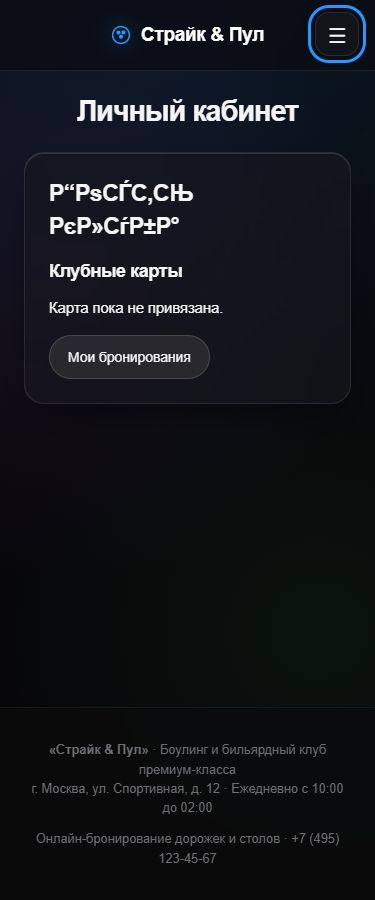
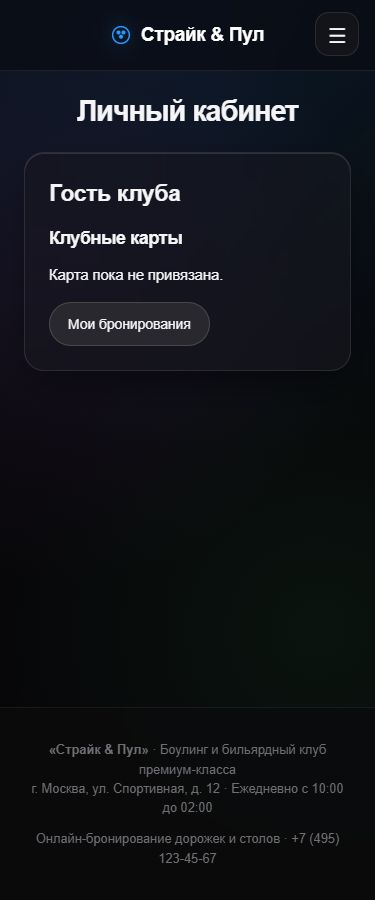
Исправил первый запуск на Windows и переснял профиль
При пустой SQLite локальный сервер применяет миграции и загружает каталог. В инструкции указал команды через py, в отчёте описал ошибку при запуске скачанной копии и результат повторной проверки.

Заменил оба снимка профиля за занятие 8: имя учебного гостя теперь читается при 375 и 1440 пикселях.

Changed region(s): [[0.1173, 0.1867, 0.5867, 0.4356], [0.8213, 0.0, 0.9973, 0.0933]]

diff --git a/club/migrations/0004_initial_catalog.py b/club/migrations/0004_initial_catalog.py
@@ -1,0 +1,23 @@
+import json
+from pathlib import Path
+
+from django.db import migrations
+
+
+def load_initial_catalog(apps, schema_editor):
+    fixture = Path(__file__).resolve().parents[1] / "fixtures" / "club_catalog.json"
+    rows = json.loads(fixture.read_text(encoding="utf-8"))
+    database = schema_editor.connection.alias
+    models = {label: apps.get_model(label) for label in {row["model"] for row in rows}}
+    if any(model.objects.using(database).exists() for model in models.values()):
+        return
+
+    for row in rows:
+        model = models[row["model"]]
+        fields = {model._meta.get_field(name).attname: value for name, value in row["fields"].items()}
+        model.objects.using(database).create(pk=row["pk"], **fields)
+
+
+class Migration(migrations.Migration):
+    dependencies = [("club", "0003_contact")]
+    operations = [migrations.RunPython(load_initial_catalog, migrations.RunPython.noop)]

diff --git a/club/management/commands/runserver.py b/club/management/commands/runserver.py
@@ -1,0 +1,15 @@
+from django.conf import settings
+from django.contrib.staticfiles.management.commands.runserver import Command as StaticRunserver
+from django.core.management import call_command
+from django.db import connection
+
+
+class Command(StaticRunserver):
+    def check_migrations(self):
+        local_database = settings.BASE_DIR / "db.sqlite3"
+        if (settings.DEBUG and connection.vendor == "sqlite"
+                and connection.settings_dict["NAME"] == local_database
+                and not connection.introspection.table_names()):
+            self.stdout.write("Первый запуск. Создаём таблицы и загружаем каталог клуба.")
+            call_command("migrate", interactive=False, stdout=self.stdout)
+        super().check_migrations()

diff --git a/config/settings.py b/config/settings.py
@@ -14,8 +14,8 @@ INSTALLED_APPS = [
     "django.contrib.contenttypes",
     "django.contrib.sessions",
     "django.contrib.messages",
-    "django.contrib.staticfiles",
     "club.apps.ClubConfig",
+    "django.contrib.staticfiles",
 ]
 
 MIDDLEWARE = [

diff --git a/README.md b/README.md
@@ -4,17 +4,26 @@
 
 ## Локальный запуск
 
-Из корня репозитория в PowerShell (проверено на Python 3.14):
+В Windows откройте PowerShell в папке проекта, где лежат `manage.py` и `requirements.txt`. При первом запуске создайте окружение и установите зависимости.
 
 ```powershell
-python -m venv .venv
-.venv/Scripts/python.exe -m pip install -r requirements.txt
-.venv/Scripts/python.exe manage.py migrate
-.venv/Scripts/python.exe manage.py loaddata club_catalog
-.venv/Scripts/python.exe manage.py runserver
+py -m venv venv
+.\venv\Scripts\Activate.ps1
+py -m pip install -r requirements.txt
+py manage.py migrate
+py manage.py runserver
 ```
 
-Откройте http://127.0.0.1:8000/. В Linux и macOS используйте `.venv/bin/python`. Команда `loaddata` предназначена для первоначального заполнения учебной базы. Она загружает игровые зоны, меню, тарифы и примеры отзывов. Чтобы открыть личный кабинет, нажмите «Регистрация» и заполните форму. Для сохранения сеансов между перезапусками задайте постоянный `DJANGO_SECRET_KEY` в локальном окружении.
+Откройте [главную страницу](http://127.0.0.1:8000/). Команда `migrate` создаёт таблицы SQLite и один раз заполняет пустой каталог клуба. Локальный `runserver` также подготавливает базу при первом запуске, если файл отсутствует или в нём ещё нет таблиц.
+
+Для следующих запусков из той же папки достаточно двух команд.
+
+```powershell
+.\venv\Scripts\Activate.ps1
+py manage.py runserver
+```
+
+После получения обновлений проекта выполните `py manage.py migrate` перед запуском. Для сохранения сеансов между перезапусками задайте постоянный `DJANGO_SECRET_KEY` в локальном окружении.
 
 ## Страницы
 
@@ -44,8 +53,8 @@ python -m venv .venv
 ## Проверка занятия 8
 
 ```powershell
-.venv/Scripts/python.exe manage.py check
-.venv/Scripts/python.exe manage.py test
+py manage.py check
+py manage.py test
 ```
 
 Главная сохранила порядок блоков макета занятия 6. В каталоге над сеткой карточек расположены строка поиска и фильтры. Как и в макете, каждая карточка показывает фото, категорию, порцию, состав и цену. Название и ссылка «Подробнее» ведут на страницу блюда. На телефоне карточки располагаются в один столбец, пункты навигации открываются кнопкой меню.
@@ -56,10 +65,10 @@ python -m venv .venv
 
 ## Занятие 9. Формы и клиентская логика
 
-1. Создайте профиль, указав имя, логин, почту, телефон и пароль. Браузер проверяет обязательные поля, формат контактов, длину имени и совпадение паролей. Django повторяет проверку при отправке. Ошибки появляются рядом с полями, введённые контактные данные сохраняются.
-2. Выберите дорожку или стол на схеме главной страницы. Укажите дату, время, длительность и число гостей. После выбора зон форма запрашивает стоимость у `GET /api/quote/`. При изменении параметров сумма обновляется с учётом почасовых тарифов. Если зона занята, форма объясняет причину.
-3. Сохраните бронь. Django повторно проверит время, вместимость и занятость, затем откроет детали с сообщением об успехе. Перейдите в «Параметры брони», чтобы изменить запись, или откройте талон. Изменения доступны владельцу.
-4. В разделе «Бар & Кухня» введите название блюда или выберите категорию. Список, число совпадений и ссылки на результаты обновляются без перезагрузки. Кнопка «Найти» также работает при отключённом JavaScript.
+1. Реализована регистрация с проверкой имени, почты, телефона и пароля. При ошибке Django показывал причину рядом с полем, а введённые контактные данные сохранялись.
+2. Форма бронирования запрашивала стоимость у `GET /api/quote/`. При изменении количества часов сумма пересчитывалась без перезагрузки. Сервер проверял вместимость и занятость выбранных зон.
+3. В Chrome проверен путь от выбора стола на схеме до талона. После сохранения открывались детали брони с сообщением об успехе. В параметрах удалось изменить число гостей.
+4. В меню проверен поиск по названию блюда. При вводе запроса обновлялись список блюд и число совпадений. Кнопка «Найти» отправляла обычную GET-форму.
 
 ## Сравнение с макетом занятия 6
 
@@ -85,3 +94,11 @@ python -m venv .venv
 | [Меню](docs/lesson9/reports/lighthouse-menu.json) | 92 | 100 |
 | [Регистрация](docs/lesson9/reports/lighthouse-register.json) | 93 | 100 |
 | [Бронирование](docs/lesson9/reports/lighthouse-booking.json) | 92 | 100 |
+
+## Повторная проверка после скачивания проекта, 19 ноября 2026 года
+
+В скачанной копии сайт при первом обращении к главной странице показал `OperationalError: no such table: club_gametype`. Файл SQLite имел размер 0 байт, три миграции приложения ожидали применения. Зависимости уже были установлены. В окружении Windows сработала команда `py -m pip install -r requirements.txt`. Затем были применены миграции и загружены 128 записей из учебного каталога. После исправления главная, меню, профиль, регистрация и файл стилей вернули HTTP 200. Все 9 тестов Django прошли.
+
+Первоначальные проверки в браузере выполнялись с подготовленной базой. Для повторной проверки была взята отдельная чистая копия проекта и создано новое виртуальное окружение. После установки зависимостей команда `py manage.py runserver` сама создала таблицы и заполнила каталог. В базе появились 4 игровых формата, 14 зон, 16 блюд, 84 тарифных интервала, 6 отзывов и 4 категории. После повторного запуска сохранилось проверочное изменение названия блюда.
+
+На двух первоначальных скриншотах профиля за занятие 8 имя учебного посетителя отображалось искажёнными символами. Геометрия страницы и отсутствие ошибок в консоли этого не выявили. Профиль заново открыт на версии занятия 8 с именем «Гость клуба» и переснят при обеих ширинах. [375 px](docs/lesson8/profile-375.jpg) · [1440 px](docs/lesson8/profile-1440.jpg).
